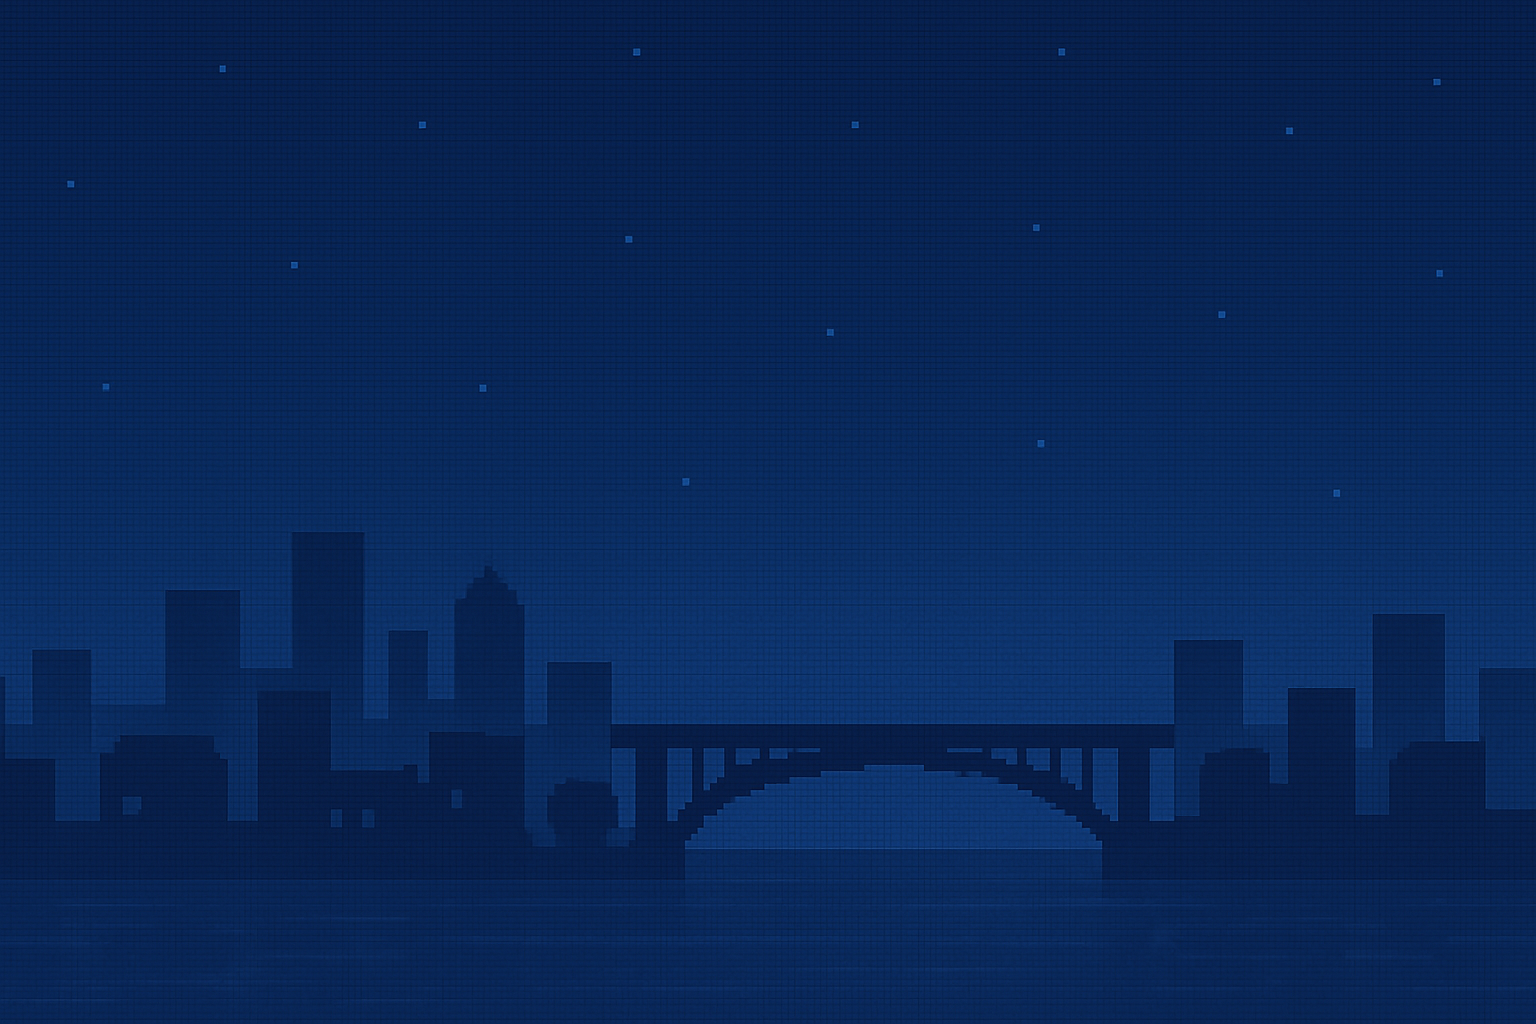
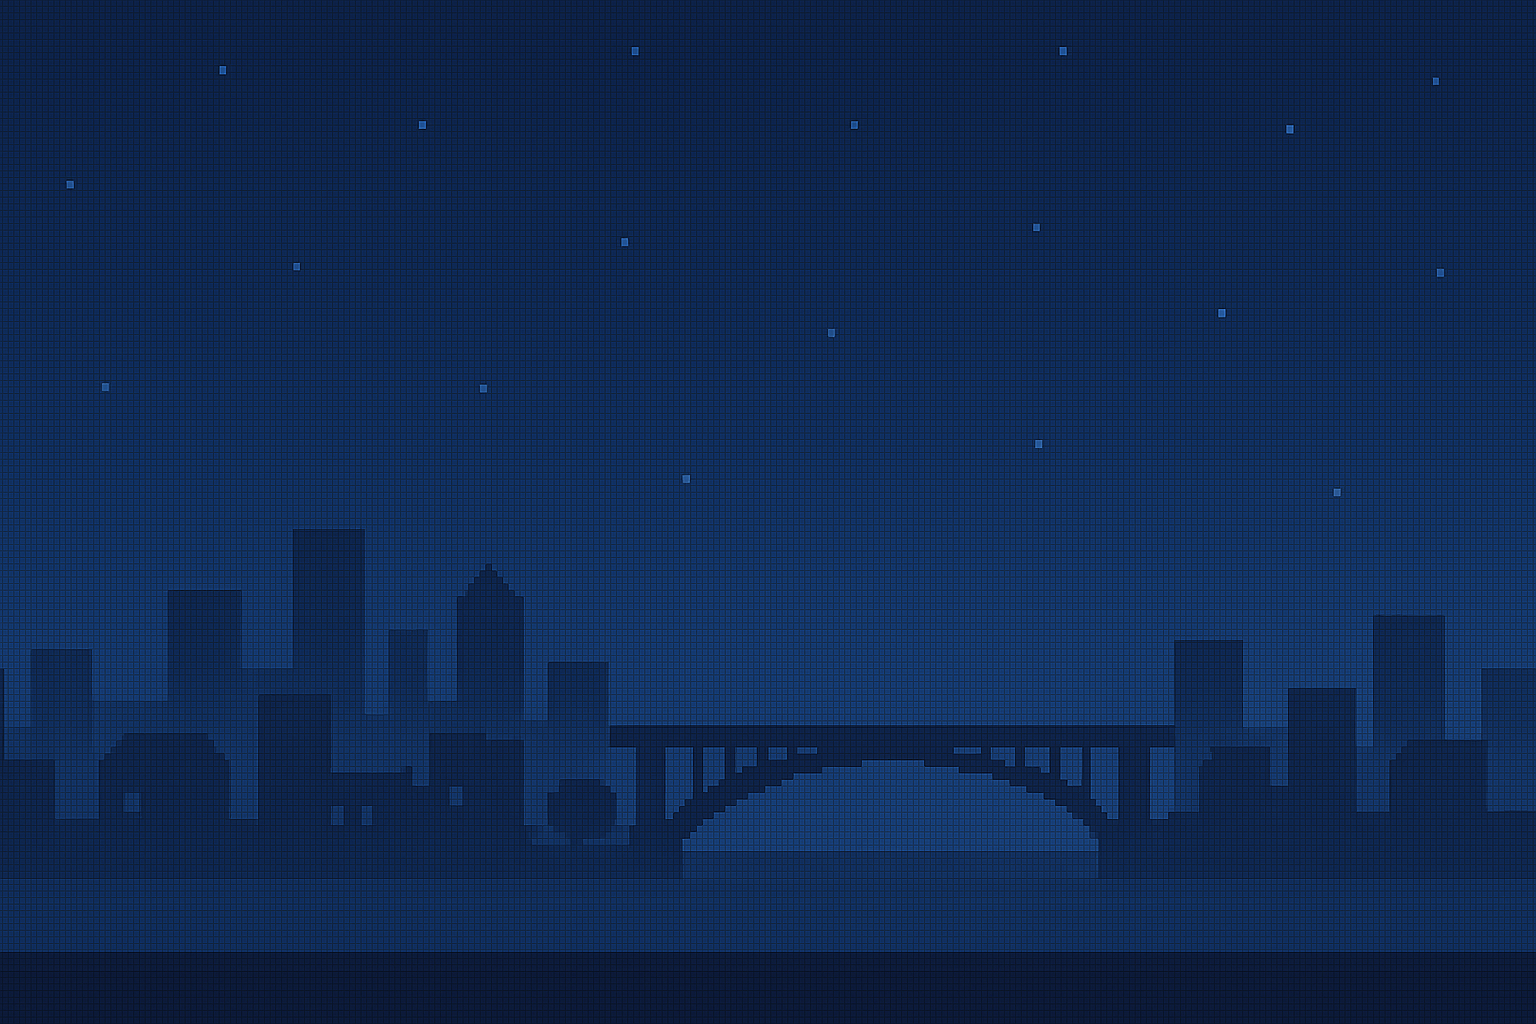
backgrounds

Changed region(s): [[0.0, 0.0, 1.0, 1.0]]

diff --git a/js/entities/Firework.js b/js/entities/Firework.js
@@ -289,7 +289,7 @@ class Firework {
             const acceleration = new Renderer2D.Vector2();
             const shape = component.shape;
             const spread = component.spread;
-            this.particleSystem.addGlow(this.rocket.position, color,  component.glowStrength, 1000* component.glowStrength, 1, component.glowStrength, 0);
+            this.particleSystem.addGlow(this.rocket.position, color,  component.glowStrength, 500* component.glowStrength, 0.2, component.glowStrength, 0);
 
             switch (pattern) {
                 case 'solidsphere':

diff --git a/js/config/config.js b/js/config/config.js
@@ -107,6 +107,9 @@ const GENERIC_RECIPE_NAMES = [
 
 const BACKGROUND_IMAGES = [
     {name: 'Default', path: 'assets/background.png' },
+    {name: 'Darkened Forest', path: 'assets/darkened_forest.png'},
+    {name: 'Darkened Town', path: 'assets/darkened_town.png'},
+    {name: 'Darkened City', path: 'assets/darkened_city.png'},
     {name: 'Forest', path: 'assets/forest.png' },
     {name: 'Town', path: 'assets/town.png' },
     {name: 'City', path: 'assets/city.png' },
